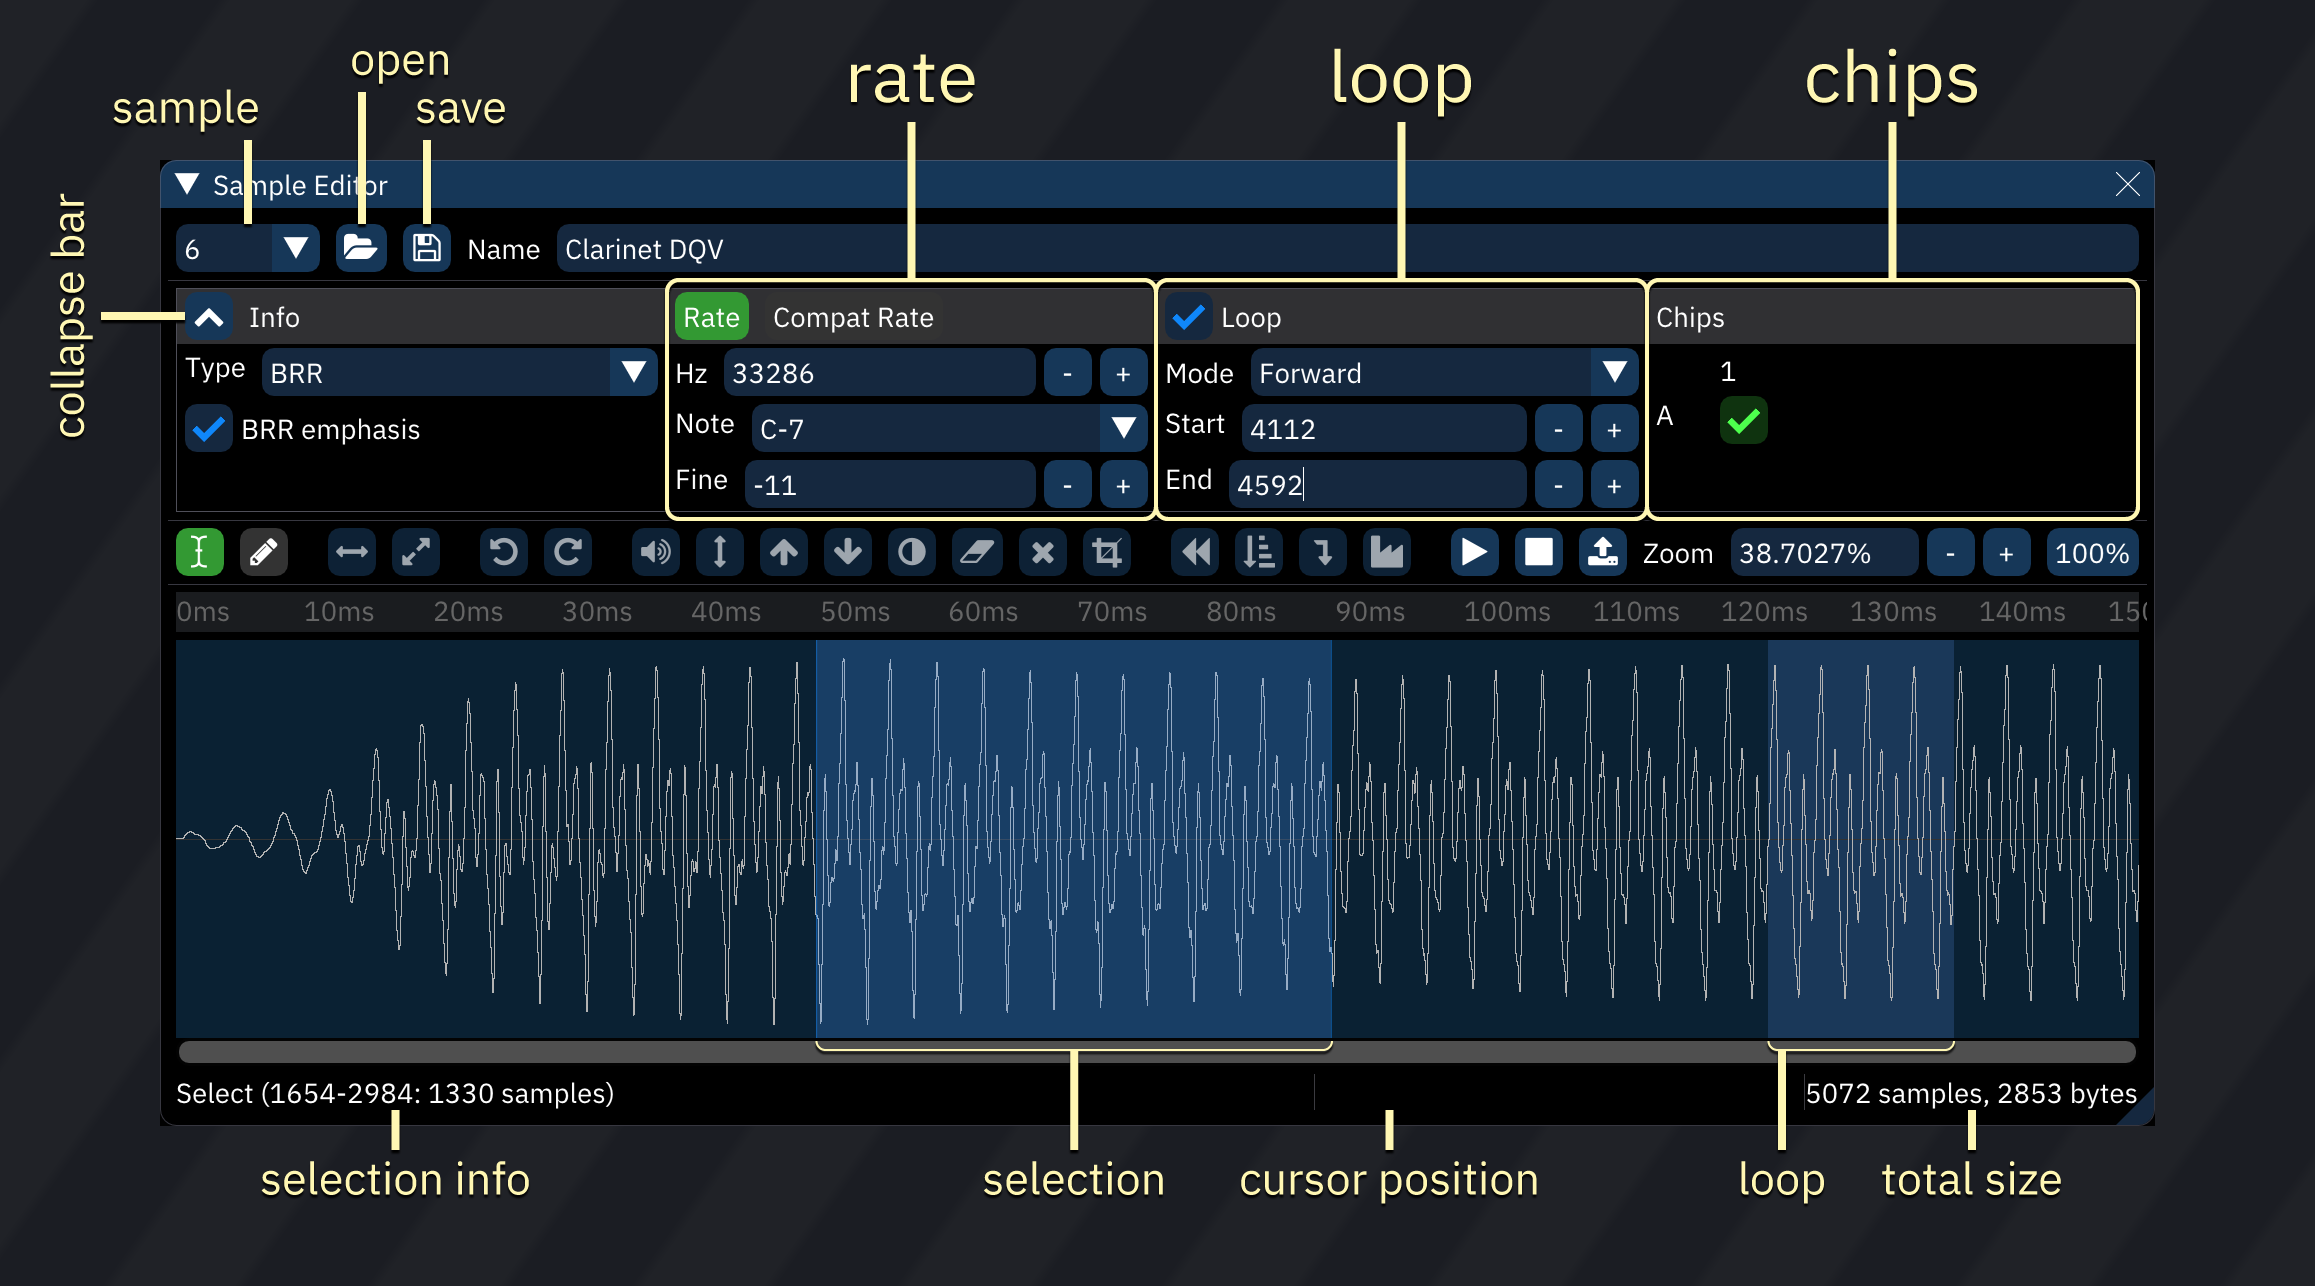
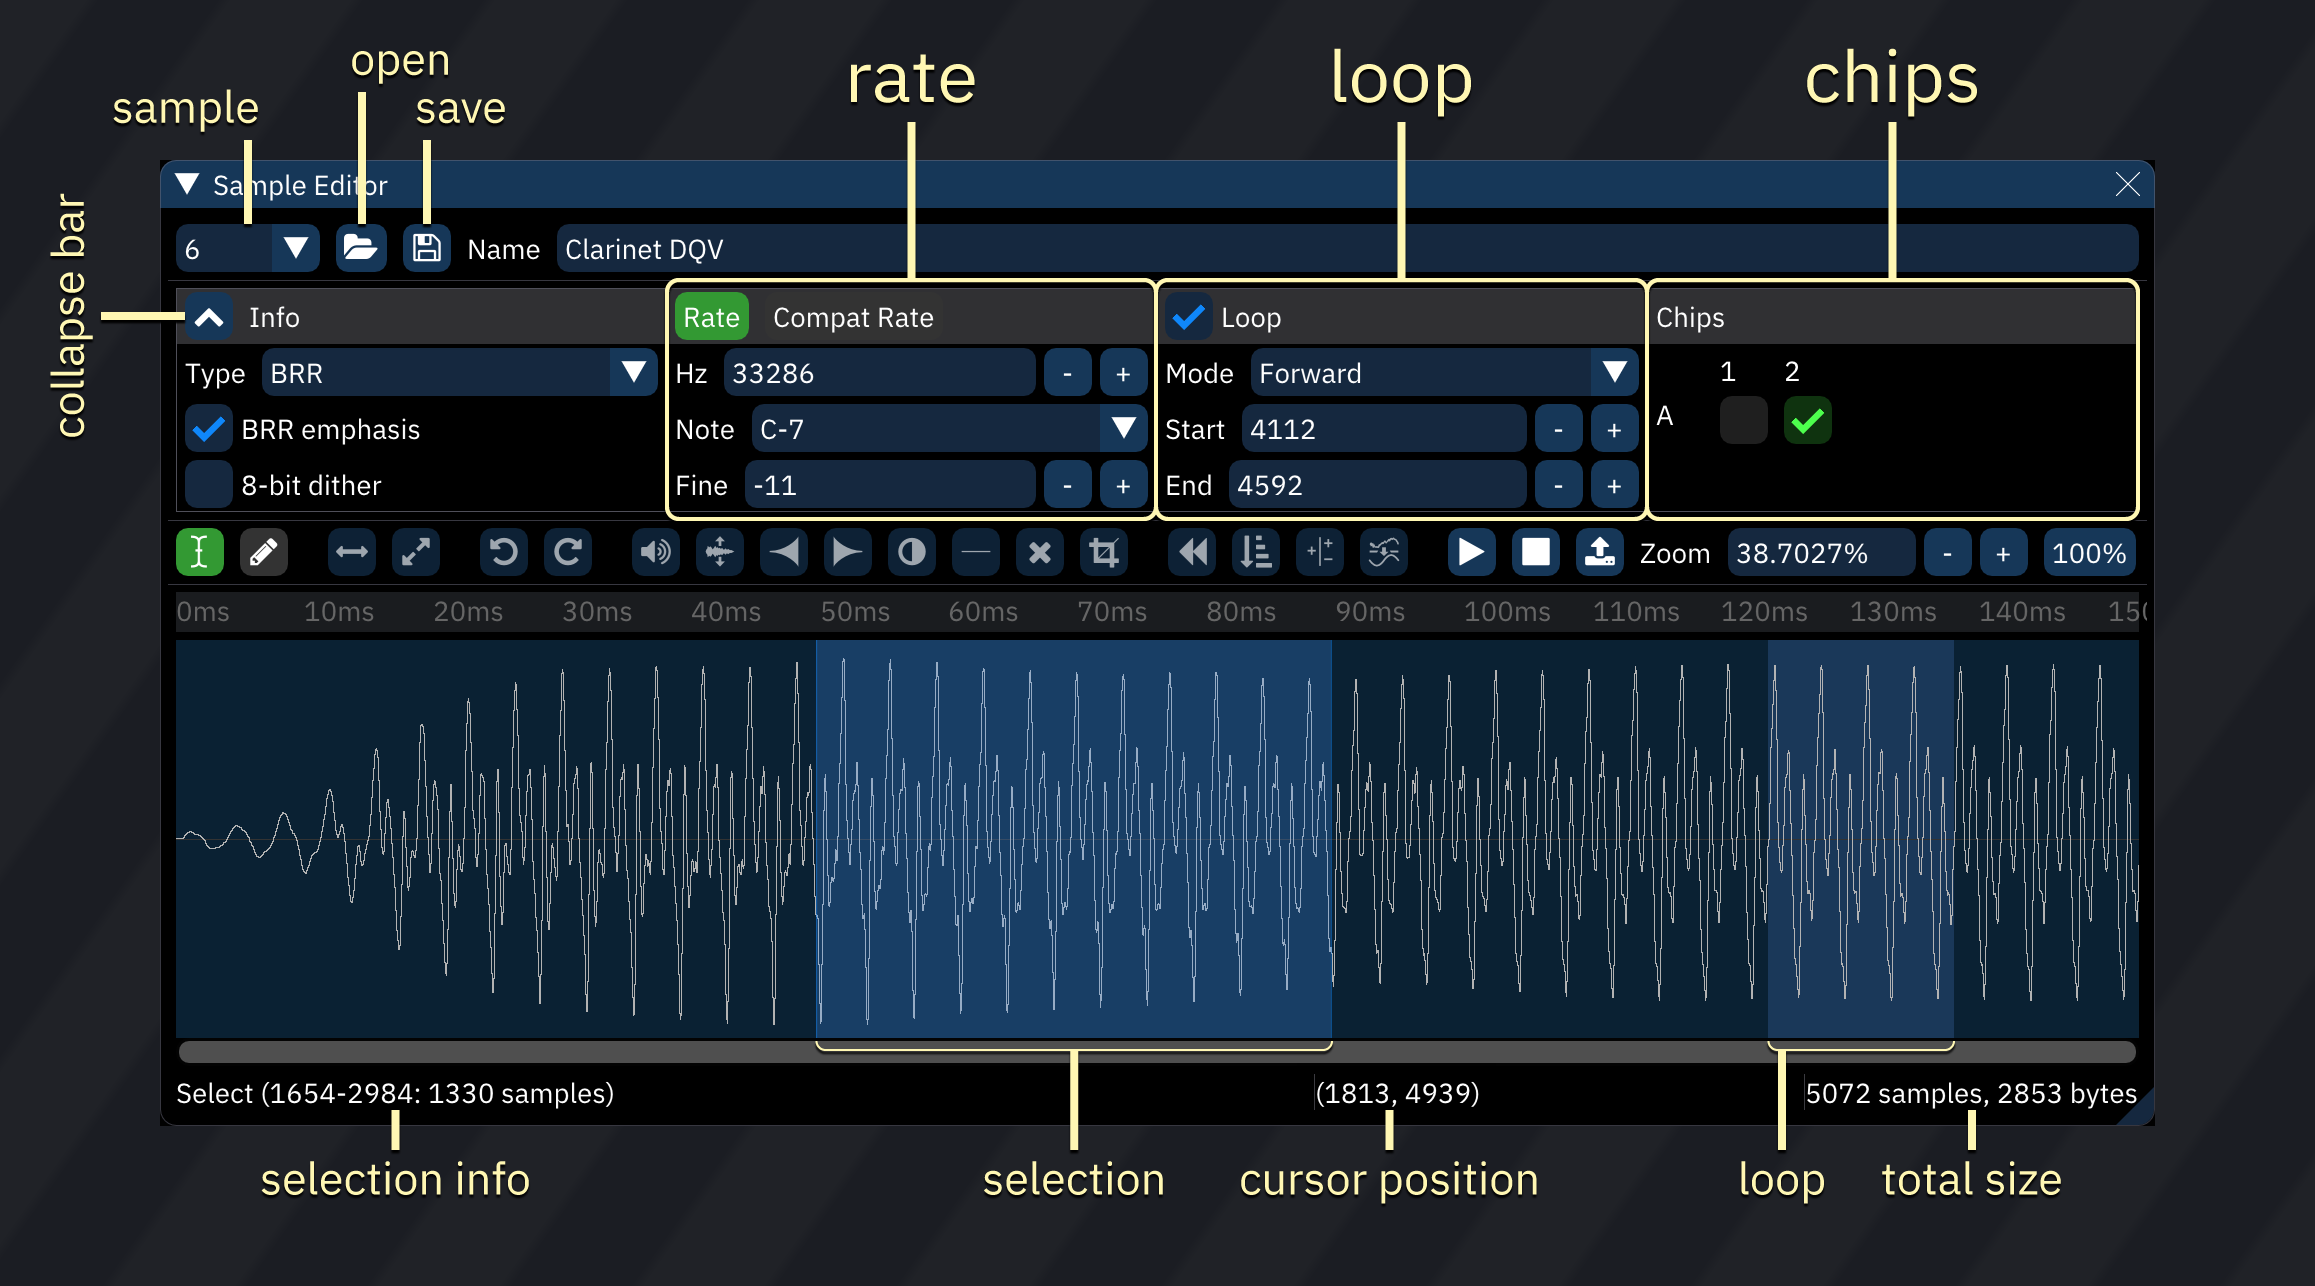
New sample editor images.
New icons! Also, better example of chip selector and 8-bit dither option.

diff --git a/doc/6-sample/README.md b/doc/6-sample/README.md
@@ -80,18 +80,19 @@ in there, you can modify certain data pertaining to your sample, such as the:
 - button to left of **Info**: collapses and expands the info bar.
 - **Type**: sample format. only 8-bit and 16-bit PCM samples are editable. selecting a format converts the sample data.
 - **BRR emphasis**: boosts higher frequencies to compensate for the SNES low-pass filter. should not be enabled for BRR-type samples.
-
+- **8-bit dither**: for samples that aren't 8-bit, this dithers the values to reduce aliasing noise when played via 8-bit PCM.
+  - ---
 - **Rate**: switches to normal rate values.
 - **Compat Rate**: switches to DefleMask-compatible rate values for sample mapping.
 - **Hz**: base frequency of sample played at `C-4`.
 - **Note**: note corresponding to Hz.
 - **Fine**: fine tuning. ranges from -64 to 63, which maps to -1 to almost +1 semitone.
-
+  - ---
 - **Loop**: enable or disable sample loop. only on supported chips.
 - **Mode**: direction of loop. backward and ping pong loops are only natively available on some chips; on others, loop will be automatically unrolled as needed.
 - **Start**: start of loop.
 - **End**: end of loop.
-
+  - ---
 - **Chips:** set assignment to chips and sample banks.
   - sample will only be uploaded to selected chips.
   - columns correspond to chips in use.
